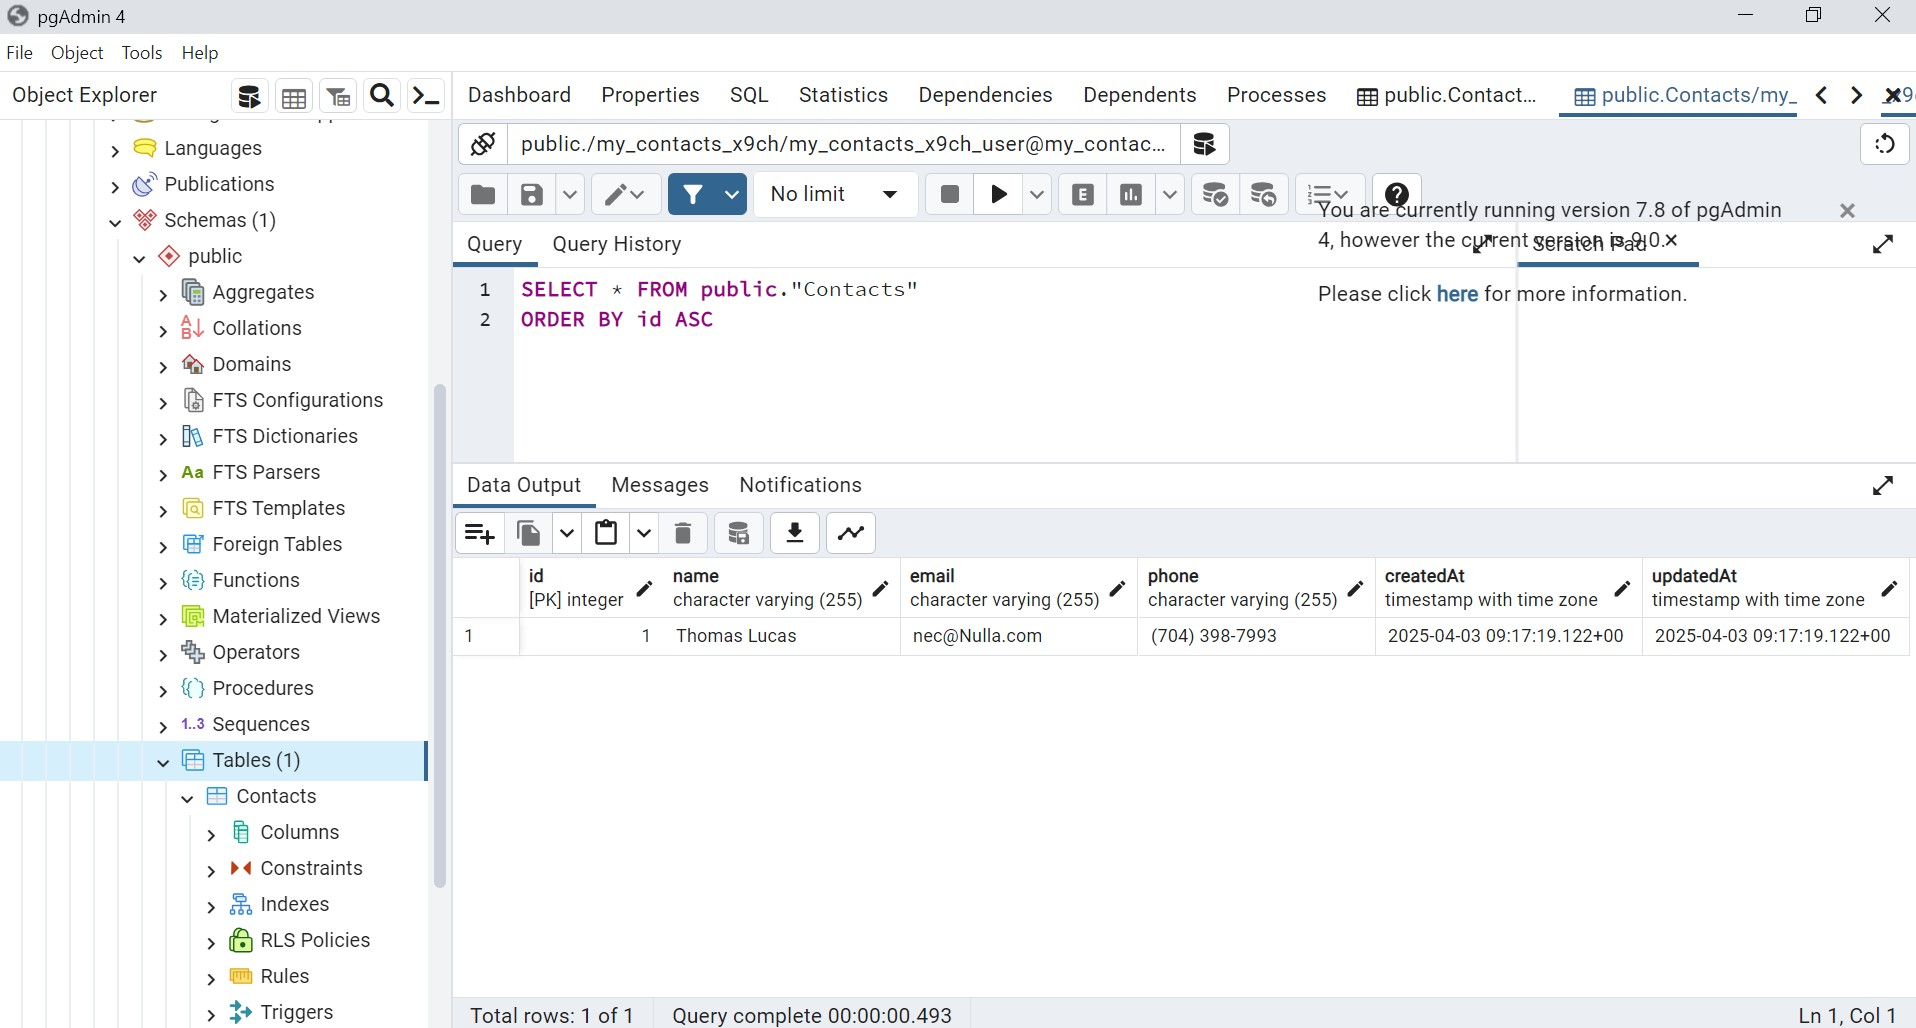
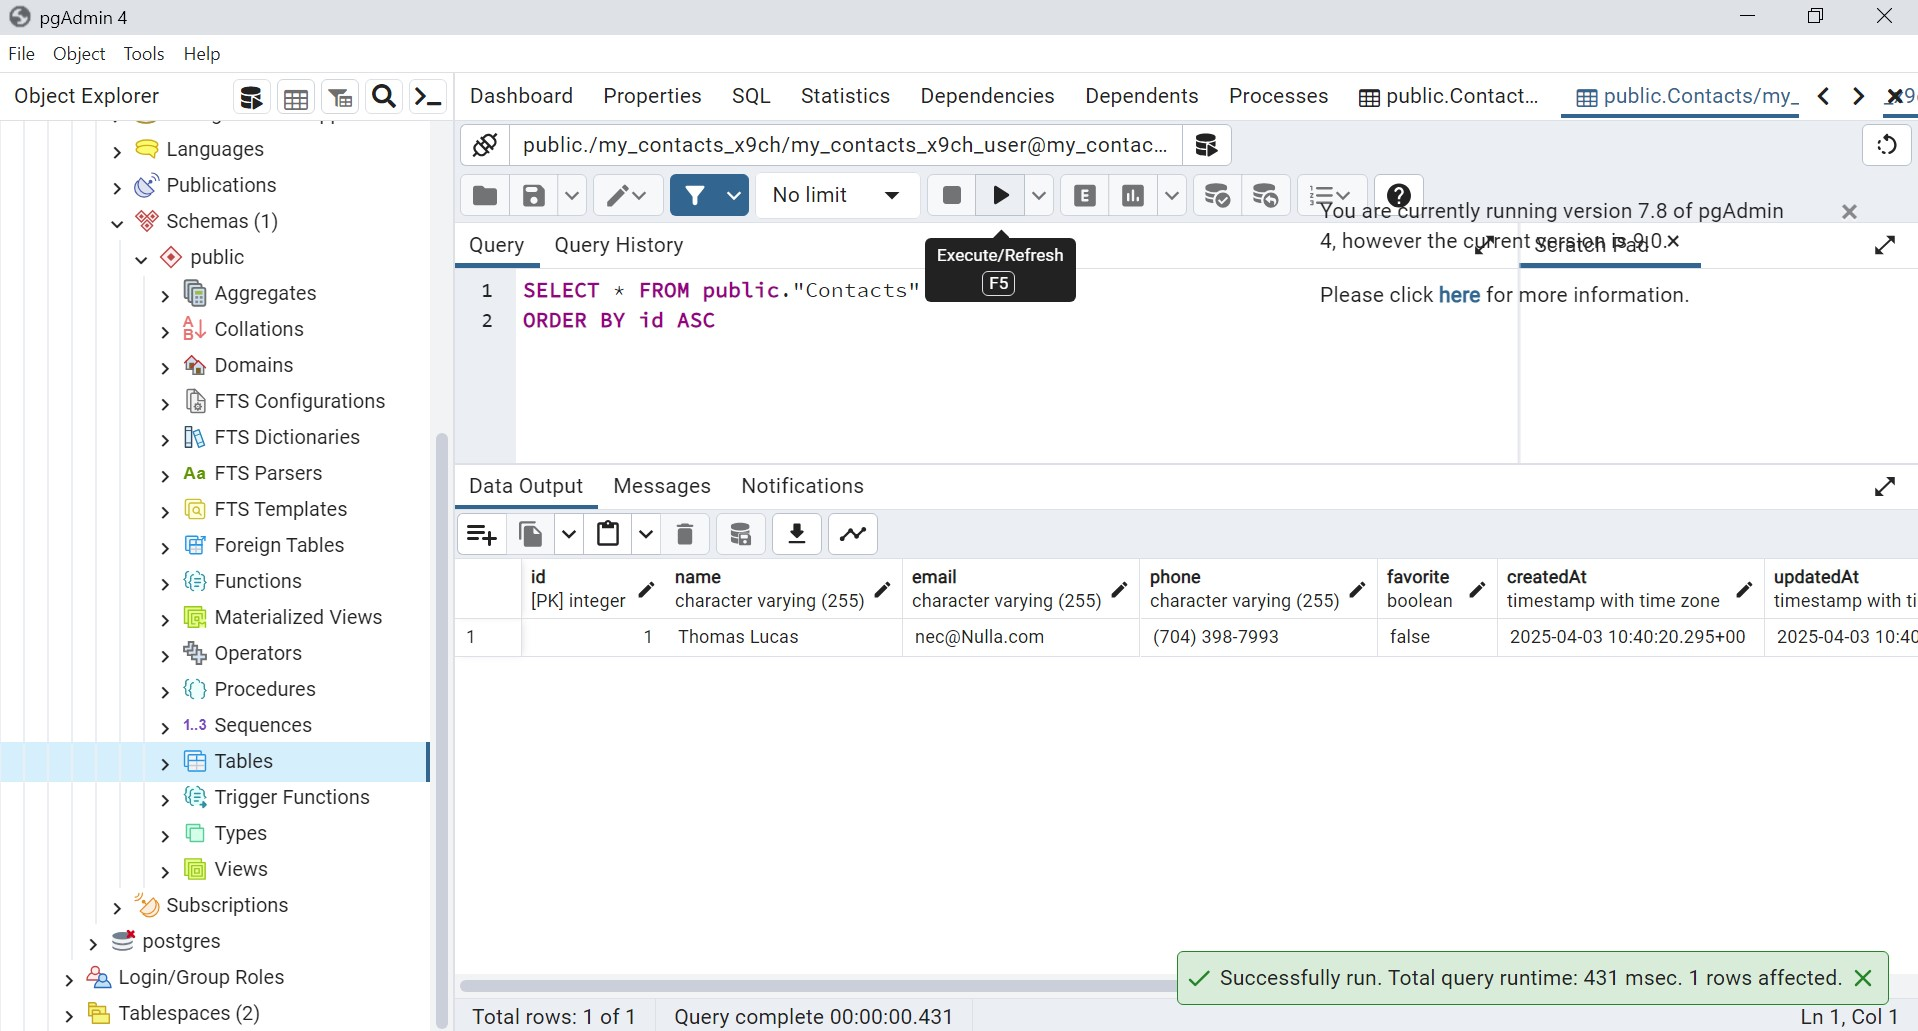
update status favorite

diff --git a/controllers/contactsControllers.js b/controllers/contactsControllers.js
@@ -56,6 +56,20 @@ export const updateContactById = async (req, res, next) => {
   }
 };
 
+export const updateStatusContact = async (req, res, next) => {
+  try {
+    const { id } = req.params;
+    const { favorite } = req.body;
+    const updatedContact = await updateContact(id, { favorite });
+    if (!updatedContact) {
+      throw HttpError(404, `Contact with id=${id} not found`);
+    }
+    res.status(200).json(updatedContact);
+  } catch (error) {
+    next(error);
+  }
+};
+
 export const deleteContact = async (req, res, next) => {
   const { id } = req.params;
   try {

diff --git a/routes/contactsRouter.js b/routes/contactsRouter.js
@@ -5,6 +5,7 @@ import {
   deleteContact,
   createContact,
   updateContactById,
+  updateStatusContact,
 } from "../controllers/contactsControllers.js";
 
 import {
@@ -25,6 +26,12 @@ contactsRouter.put(
   "/:id",
   validateBody(updateContactSchema),
   updateContactById
+);
+
+contactsRouter.patch(
+  "/:id/favorite",
+  validateBody(updateContactSchema),
+  updateStatusContact
 );
 
 contactsRouter.delete("/:id", deleteContact);

diff --git a/schemas/contactsSchemas.js b/schemas/contactsSchemas.js
@@ -4,12 +4,14 @@ export const createContactSchema = Joi.object({
   name: Joi.string().required(),
   email: Joi.string().required(),
   phone: Joi.string().required(),
+  favorite: Joi.boolean(),
 });
 
 export const updateContactSchema = Joi.object({
   name: Joi.string(),
   email: Joi.string(),
   phone: Joi.string(),
+  favorite: Joi.boolean(),
 })
   .min(1)
   .messages({

diff --git a/db/Sequelize.js b/db/Sequelize.js
@@ -14,7 +14,7 @@ const sequelize = new Sequelize({
 
 try {
   await sequelize.authenticate();
-  console.log("Seccessfully connection to database");
+  console.log("Database connection successful");
 } catch (error) {
   console.error(`Error connection to database ${error.message}`);
 }

diff --git a/db/models/contact.js b/db/models/contact.js
@@ -15,6 +15,10 @@ const Contact = sequelize.define("Contact", {
     type: DataTypes.STRING,
     allowNull: false,
   },
+  favorite: {
+    type: DataTypes.BOOLEAN,
+    defaultValue: false,
+  },
 });
 
 // Contact.sync();
